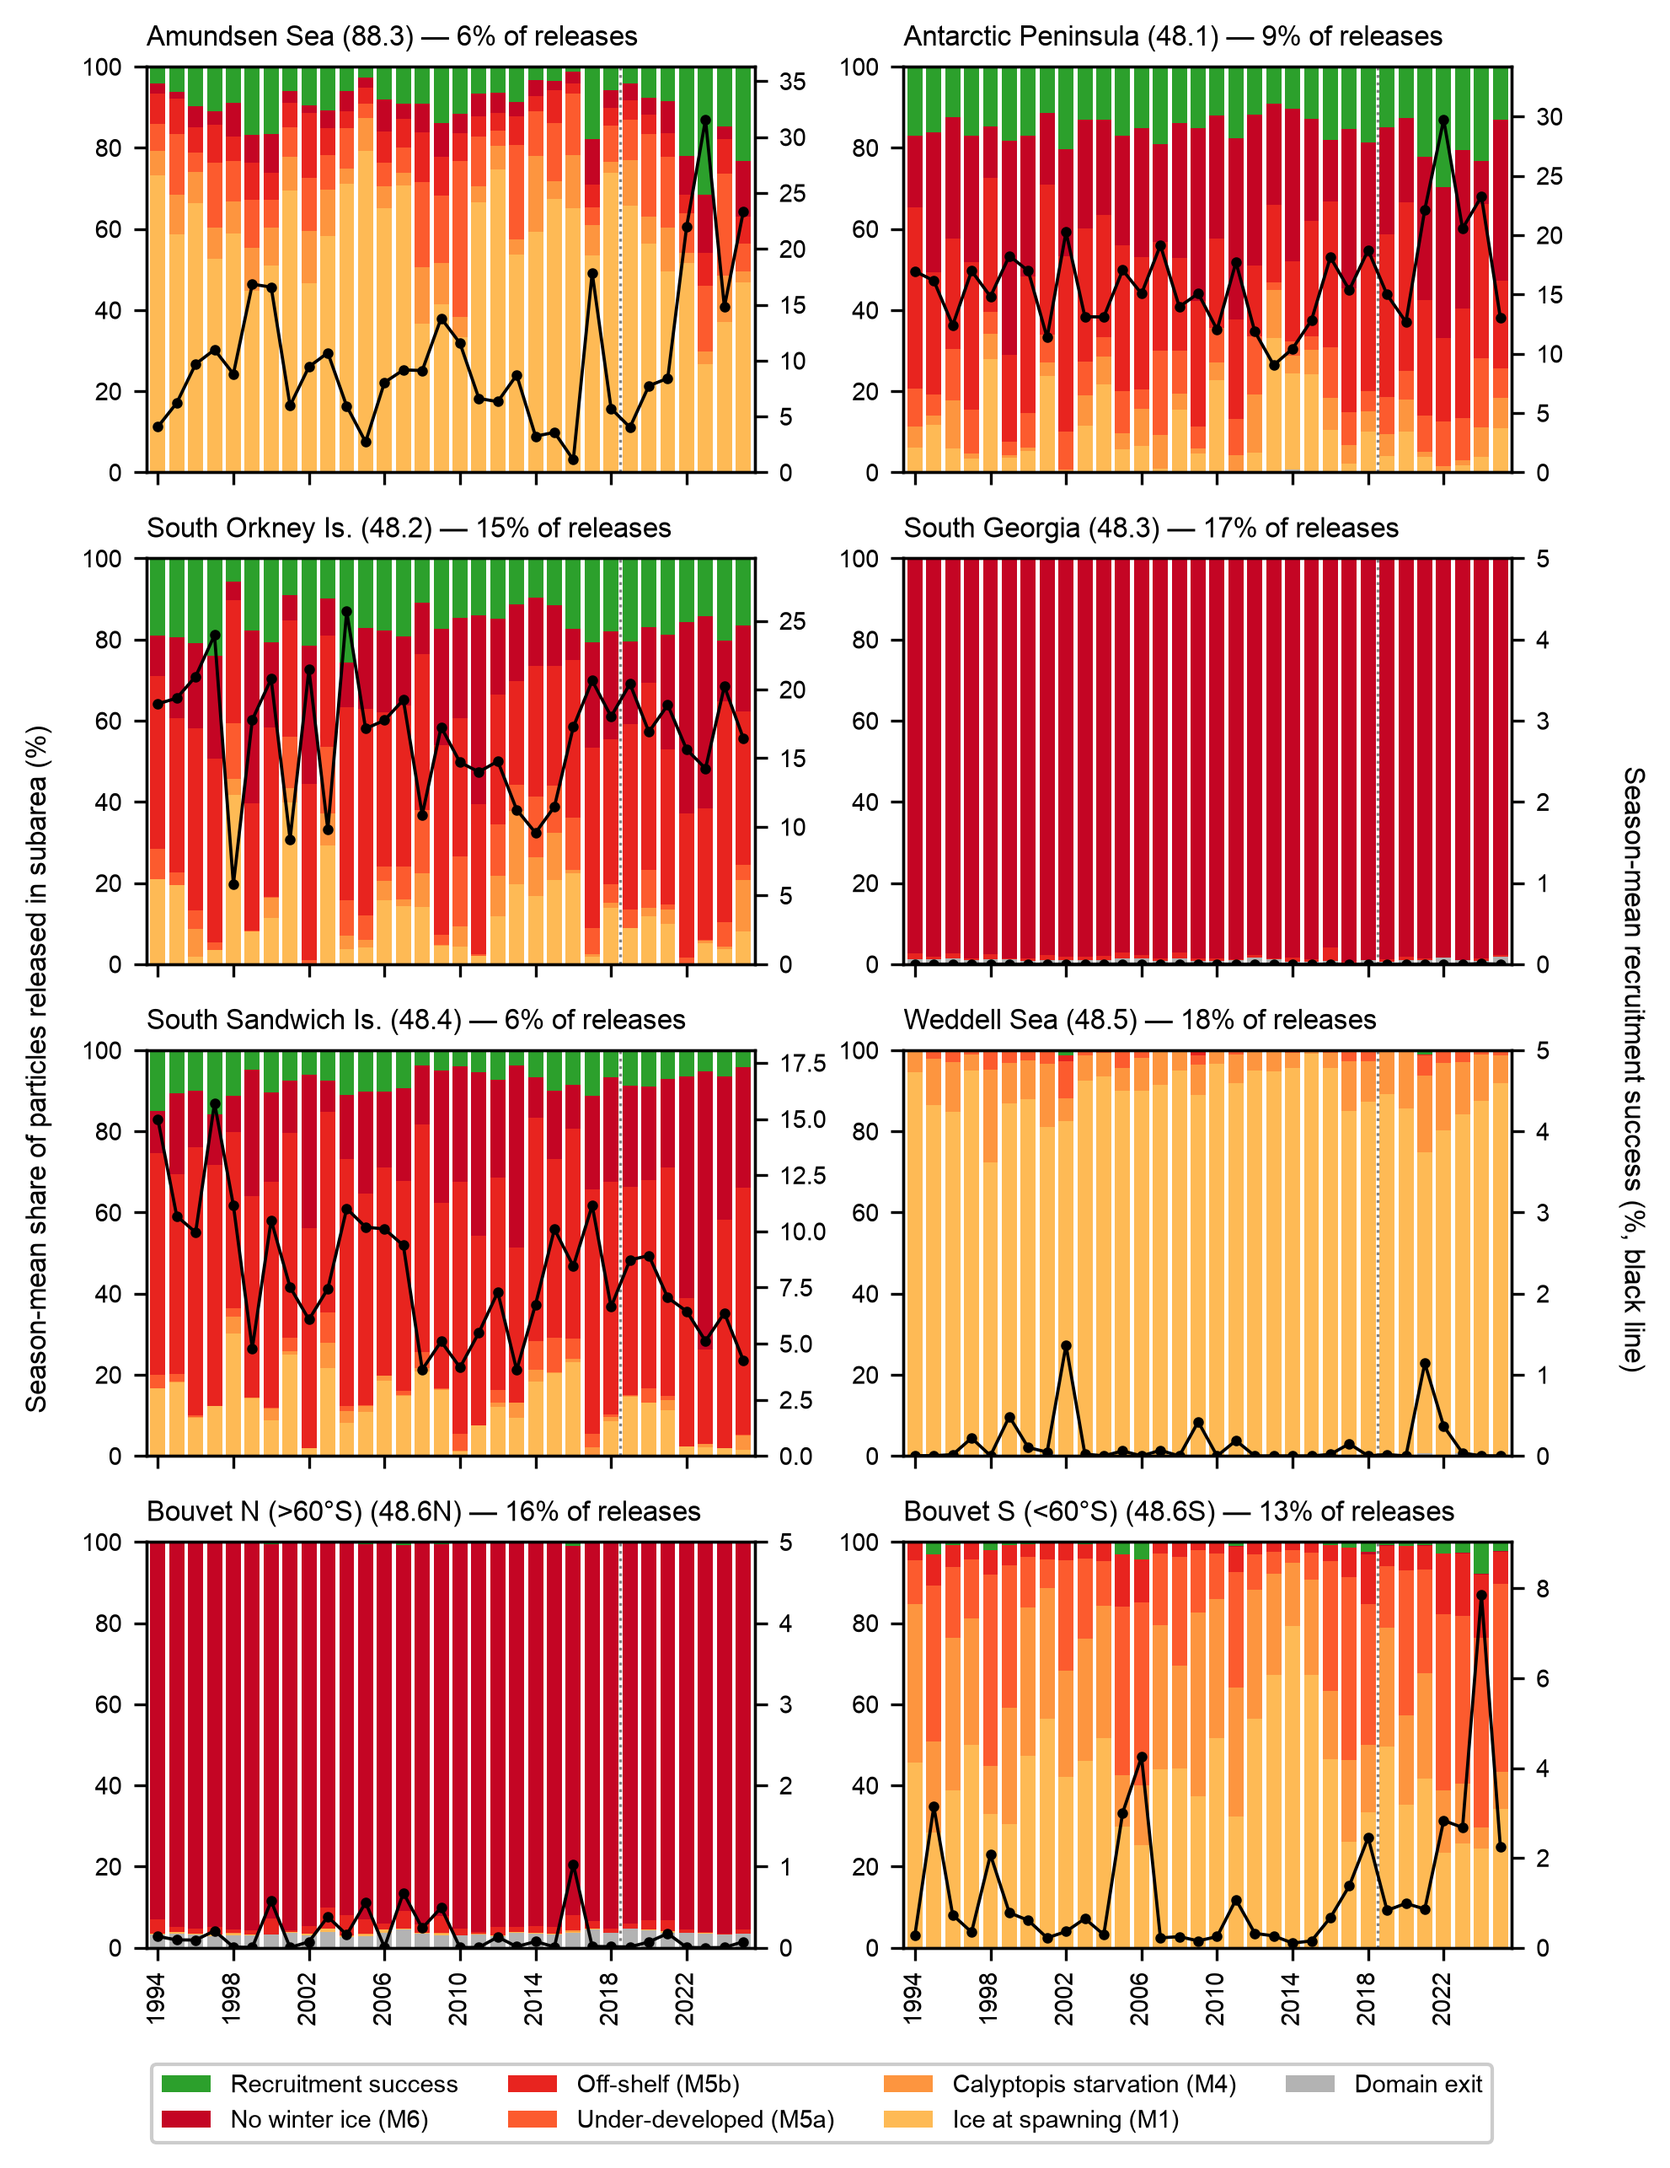
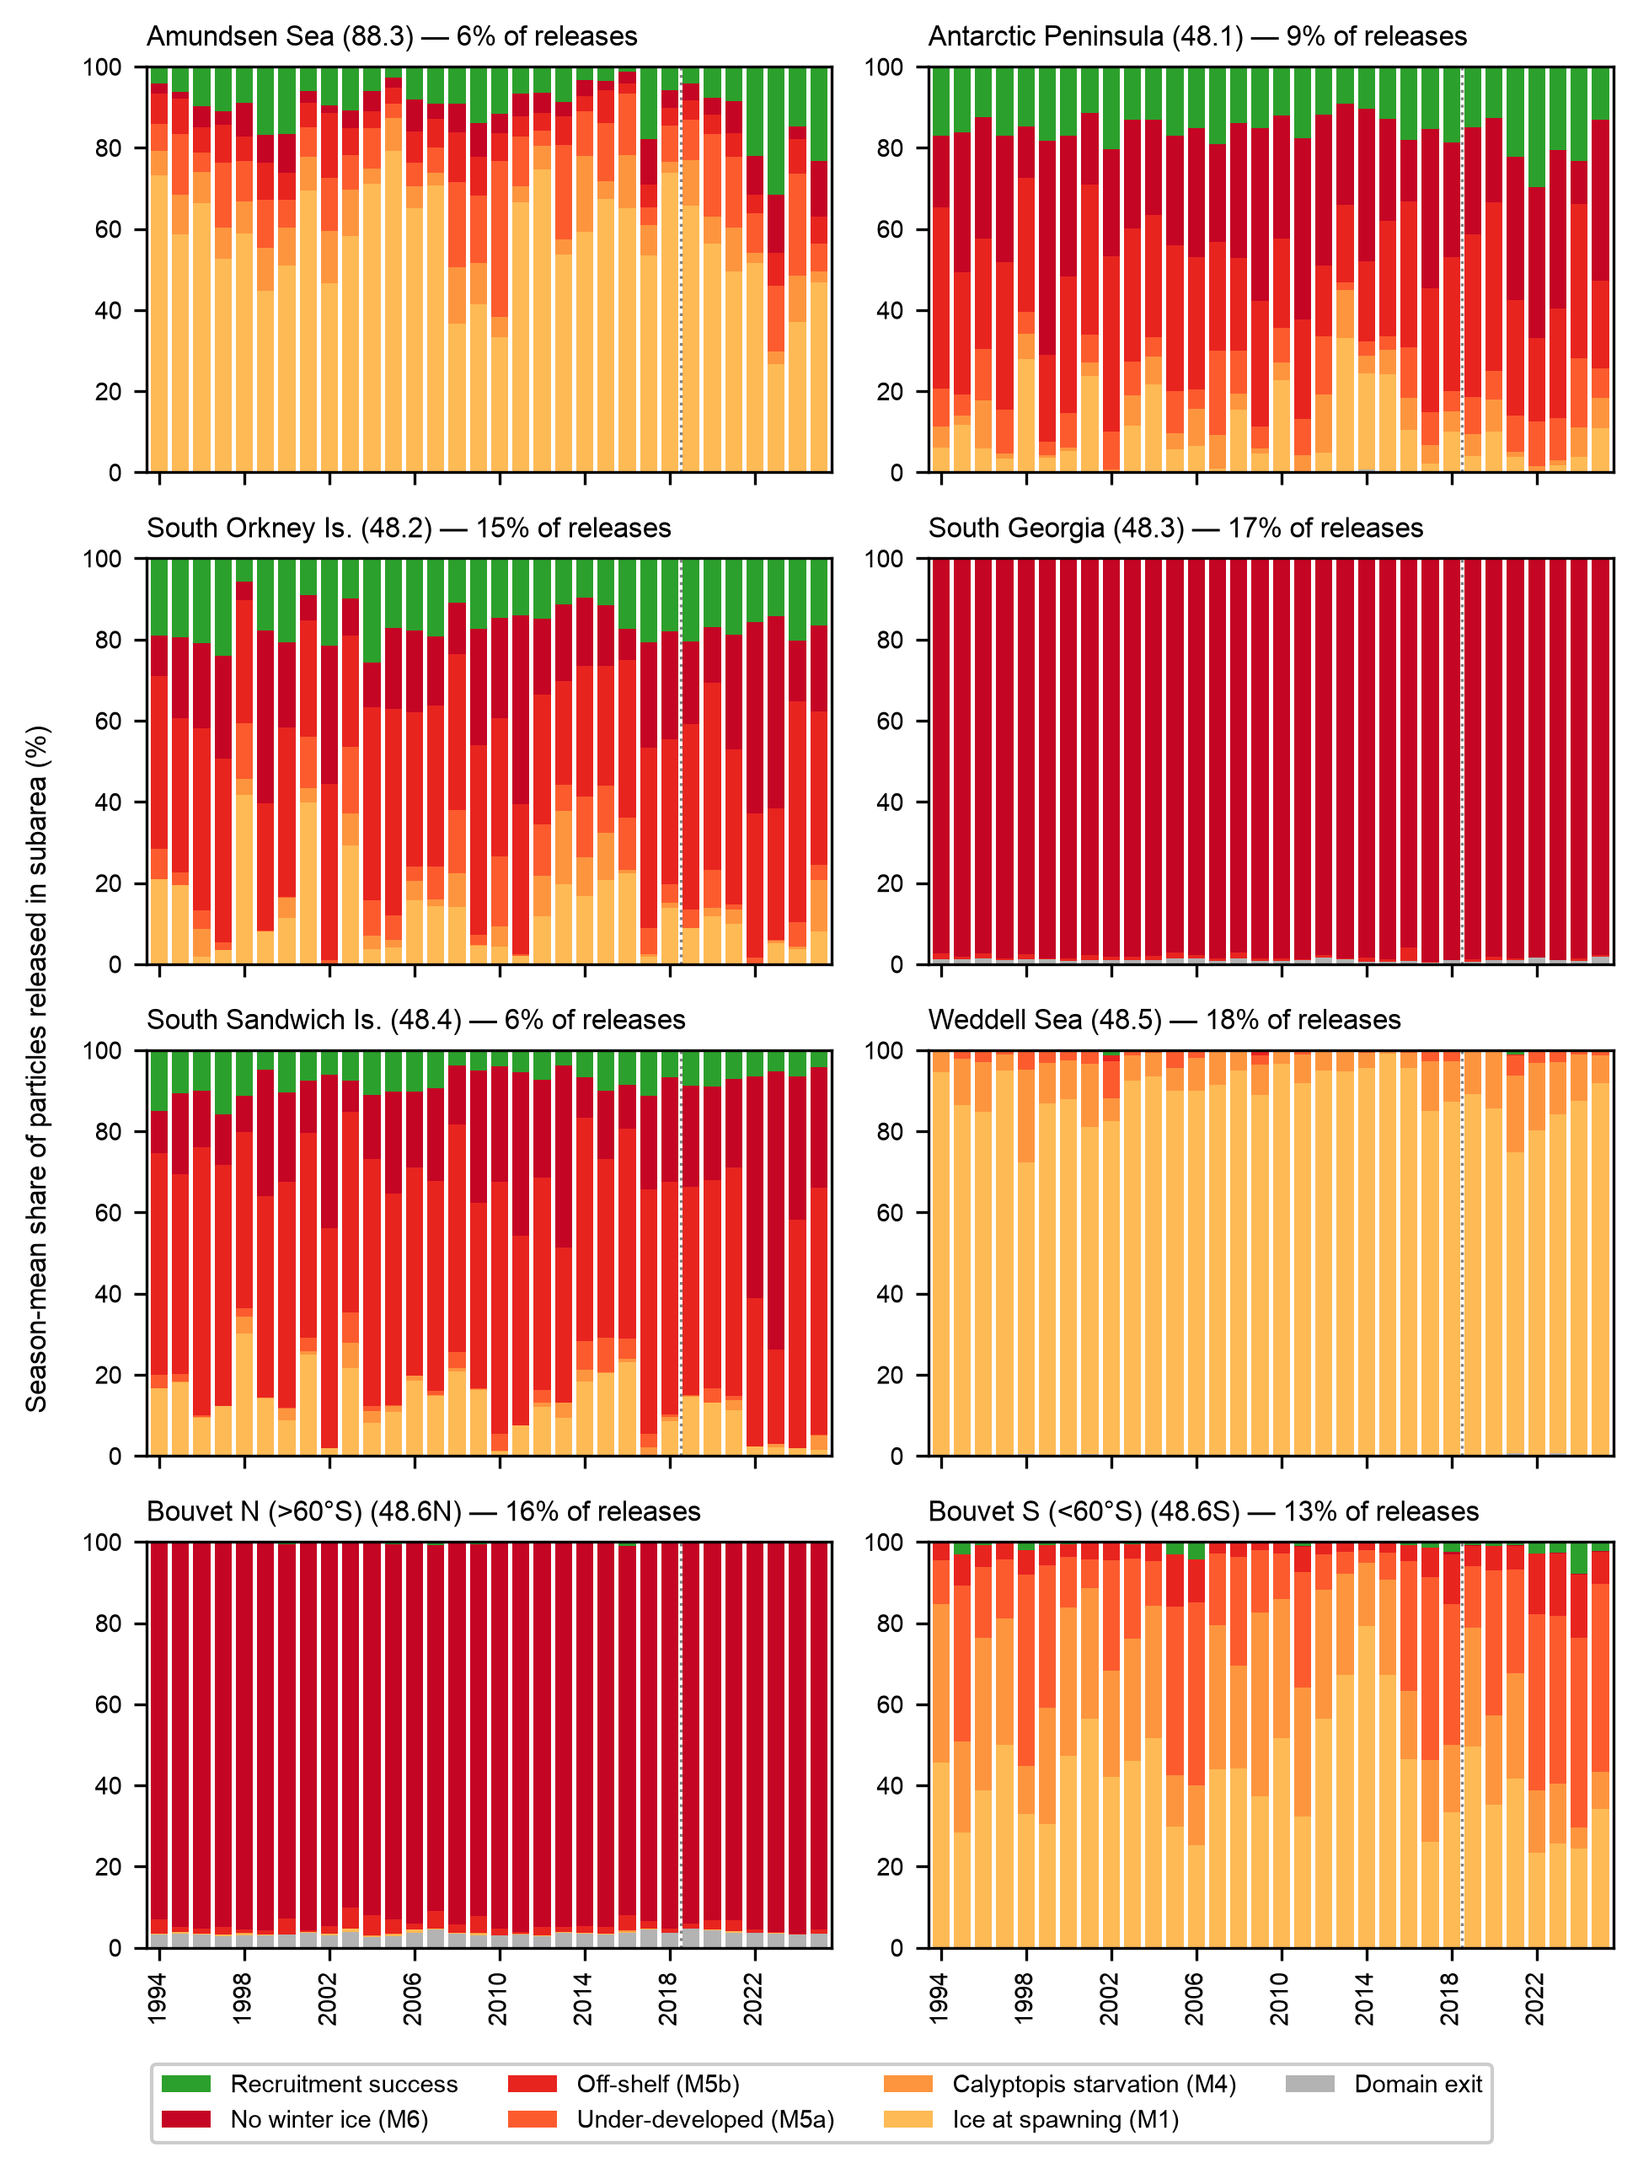
F1: drop success line from composition panels, add one-axis success figure and per-subarea attribution stdout

diff --git a/F1_timeseries/plot_subarea.py b/F1_timeseries/plot_subarea.py
@@ -4,7 +4,8 @@ Paper 2, Figure 1 (per-subarea draft): interannual recruitment by subarea.
 Reads data/aggregated_subarea.nc (from aggregate_subarea.py, run on ECMWF)
 and draws one panel per release subarea, each showing the season-mean
 outcome composition per spawning year as stacked bars (Paper 1 F3 palette)
-with the success rate on a twin axis.
+(no success line: that is the companion figure success_subarea_<by>.png,
+where all subareas share one axis so synchrony can be read directly).
 
 "Season-mean" and "per subarea" are defined as in Paper 1 Table S1: for each
 release day the fraction of particles *released in that subarea* ending in
@@ -104,10 +105,6 @@ def main() -> None:
         ax.set_ylim(0, 100)
         ax.set_title(f"{NAMES[code]} ({code}) — {100 * share[k]:.0f}% of releases",
                      fontsize=8, loc="left")
-        ax2 = ax.twinx()
-        ax2.plot(years, season[:, k, si], color="k", lw=0.9, marker="o", ms=2)
-        ax2.set_ylim(0, max(5.0, np.nanmax(season[:, k, si]) * 1.15))
-        ax2.tick_params(labelsize=7)
         ax.tick_params(labelsize=7)
     for ax in axes[-1]:
         ax.set_xticks(years[::4])
@@ -115,14 +112,35 @@ def main() -> None:
     axes[0, 0].set_xlim(years[0] - 0.6, years[-1] + 0.6)
     fig.text(0.015, 0.5, f"Season-mean share of particles released in subarea (%)",
              rotation=90, va="center", fontsize=8)
-    fig.text(0.985, 0.5, "Season-mean recruitment success (%, black line)",
-             rotation=270, va="center", fontsize=8)
     h, l = axes[0, 0].get_legend_handles_labels()
     fig.legend(h[::-1], l[::-1], loc="lower center", ncol=4, fontsize=7,
                framealpha=1.0, bbox_to_anchor=(0.5, -0.005))
-    fig.tight_layout(rect=(0.03, 0.04, 0.97, 1))
+    fig.tight_layout(rect=(0.03, 0.04, 1, 1))
     fig.savefig(out, dpi=300, bbox_inches="tight")
     print(f"Wrote {out}")
+
+    # ---- companion figure: success rate per subarea on one axis (synchrony)
+    out2 = out.replace("timeseries_subarea", "success_subarea")
+    fig2, ax = plt.subplots(figsize=(6.5, 4.0))
+    cmap = mpl.colormaps["tab10"]
+    for n, code in enumerate(PANEL_ORDER):
+        k = subs.index(code)
+        v = season[:, k, si]
+        if np.nanmean(v) < 0.5:          # 48.3, 48.5, 48.6N: no shelf-slope success to speak of
+            continue
+        ax.plot(years, v, color=cmap(n), lw=1.1, marker="o", ms=2.5,
+                label=f"{NAMES[code]} ({code})")
+    ax.axvline(FORCING_STEP_YEAR - 0.5, color="0.5", ls=":", lw=0.8)
+    ax.set_ylim(0, None)
+    ax.set_xlim(years[0] - 0.6, years[-1] + 0.6)
+    ax.set_xticks(years[::2]); ax.tick_params(axis="x", rotation=90)
+    ax.set_xlabel("Spawning year")
+    ax.set_ylabel(f"Season-mean recruitment success (% of particles released in subarea)")
+    ax.grid(axis="y", color="#b0b0b0", alpha=0.5)
+    ax.legend(fontsize=7.5, framealpha=1.0, loc="upper left")
+    fig2.tight_layout()
+    fig2.savefig(out2, dpi=300, bbox_inches="tight")
+    print(f"Wrote {out2}  (subareas with mean success < 0.5% omitted)")
 
     # ---- numbers for the meeting
     S = season[:, [subs.index(c) for c in PANEL_ORDER], si]   # (year, sub)
@@ -141,6 +159,24 @@ def main() -> None:
     print(f"{'':>6s} " + " ".join(f"{PANEL_ORDER[j]:>6s}" for j in ok))
     for a, j in enumerate(ok):
         print(f"{PANEL_ORDER[j]:>6s} " + " ".join(f"{R[a, b]:6.2f}" for b in range(len(ok))))
+
+    # Which constraint drives each subarea's interannual variability?
+    # Per subarea: interannual sd of each outcome's share, and its correlation
+    # with that subarea's success. Subareas with negligible success skipped.
+    killed = [l for l in LAYERS if l.startswith("killed_")]
+    print("\nPer-subarea interannual sd of outcome share (pts) | correlation with subarea success:")
+    print(f"{'':>6s} " + " ".join(f"{LABELS[l].split(' (')[1][:-1]:>14s}" for l in killed))
+    for code in PANEL_ORDER:
+        k = subs.index(code)
+        sv = season[:, k, si]
+        if np.nanmean(sv) < 0.5:
+            continue
+        cells = []
+        for l in killed:
+            v = season[:, k, names.index(l)]
+            r = np.corrcoef(sv, v)[0, 1] if np.nanstd(v) > 0 else np.nan
+            cells.append(f"{np.nanstd(v, ddof=1):5.1f} | {r:+.2f}")
+        print(f"{code:>6s} " + " ".join(f"{c:>14s}" for c in cells))
 
     # Contribution of each subarea to domain interannual variance:
     # domain success = sum_k share_k * S_k (shares are nearly constant).

diff --git a/F1_timeseries/README.md b/F1_timeseries/README.md
@@ -3,28 +3,23 @@
 | Script | Runs where | Input | Output |
 |---|---|---|---|
 | `plot_domain.py` | locally | `data/aggregated_domain.nc` (committed; see `data/PROVENANCE.md`) | `timeseries_domain.png` + stdout table |
-| `aggregate_subarea.py` | ECMWF | `$KRICO_POST/recruitment/data/*.nc` + `../ccamlr-data/` | `data/aggregated_subarea.nc` (~1 MB; commit once produced) |
-| `plot_subarea.py` | locally | `data/aggregated_subarea.nc` | `timeseries_subarea_release.png` (`--by fate` for fate subareas) |
+| `aggregate_subarea.py` | locally | `$KRICO_POST/recruitment/data/*.nc` + `../ccamlr-data/` | `data/aggregated_subarea.nc` (~1 MB; commit once produced) |
+| `plot_subarea.py` | locally | `data/aggregated_subarea.nc` | `timeseries_subarea_release.png` (composition) and `success_subarea_release.png` (success rates on one axis); `--by fate` for fate subareas |
 
 Conventions follow krico-paper1: season-day grid (0 = Nov 15, 119 = Mar 14),
 Feb 29 excluded, censored folded into M6, F3 palette, 48.6 split at 60°S.
 
-## ECMWF run
+## Aggregation
 
-```bash
-export KRICO_POST=/scratch/cvan/KRICO/Post/Production
-cd F1_timeseries
-python aggregate_subarea.py --limit 5     # smoke test
-sbatch run_aggregate.sh                   # full walk; same wall time as paper1 F3 aggregate.py
-```
-
-Subarea assignment uses a 0.05° lookup raster of the shapefile (0.1 s per
-cohort on top of the file read). The run ends by printing per-outcome totals,
-which must match `aggregated_domain.nc` exactly, and the fraction of release
-positions outside any subarea, which must be ~0.
+`aggregate_subarea.py` walks `$KRICO_POST/recruitment/data/` (run locally,
+like the paper1 aggregations). Subarea assignment uses a 0.05° lookup raster
+of the shapefile. The run ends by printing per-outcome totals, which must
+match `aggregated_domain.nc` exactly, and the fraction of release positions
+outside any subarea, which must be ~0.
 
 ## Status (2 October 2026)
 
-Domain panels done from real data. Per-subarea panels await the ECMWF run.
+Domain and per-subarea panels done from real data (aggregated_subarea.nc
+produced 2 October).
 No climate index, no significance, no treatment of the end-2018 forcing step
 beyond marking it.
